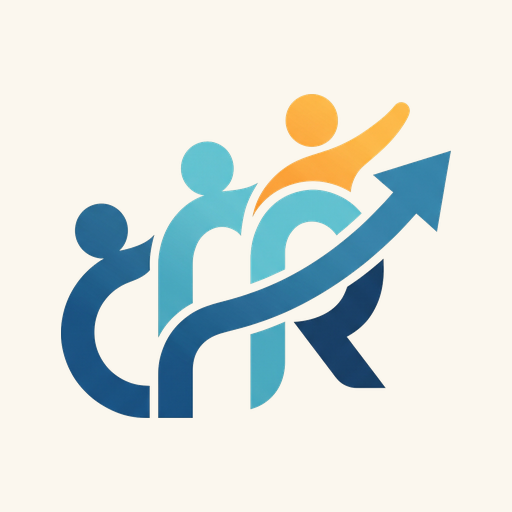
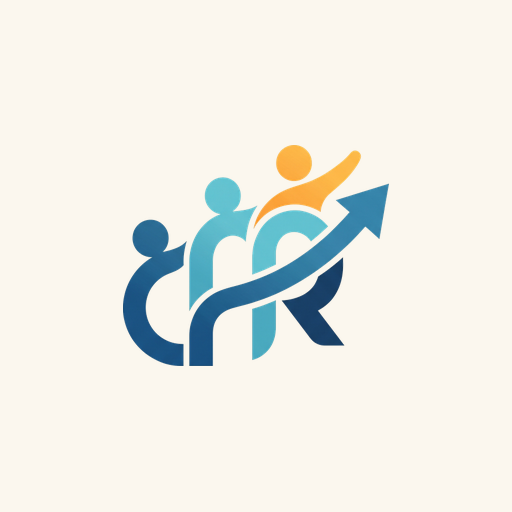
Add files via upload

Changed region(s): [[0.0938, 0.1562, 0.875, 0.8438]]

diff --git a/sw.js b/sw.js
@@ -1,5 +1,5 @@
 // Service Worker — cache หน้า static เพื่อให้เปิดได้เร็ว/ออฟไลน์บางส่วน
-const CACHE = "recruit-pwa-v3";
+const CACHE = "recruit-pwa-v4";
 const ASSETS = [
   "./", "index.html", "apply.html",
   "css/style.css", "config.js",